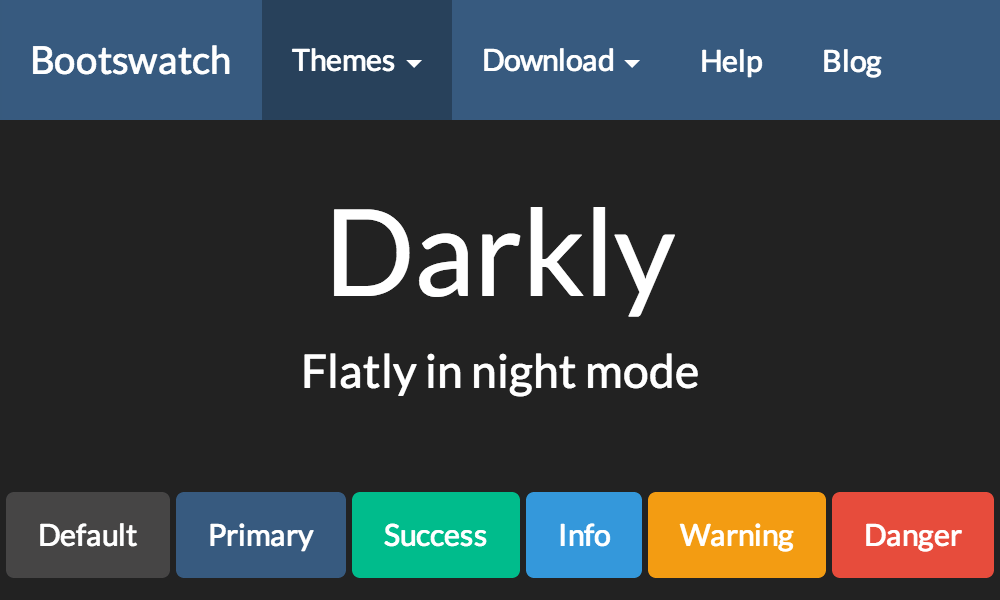
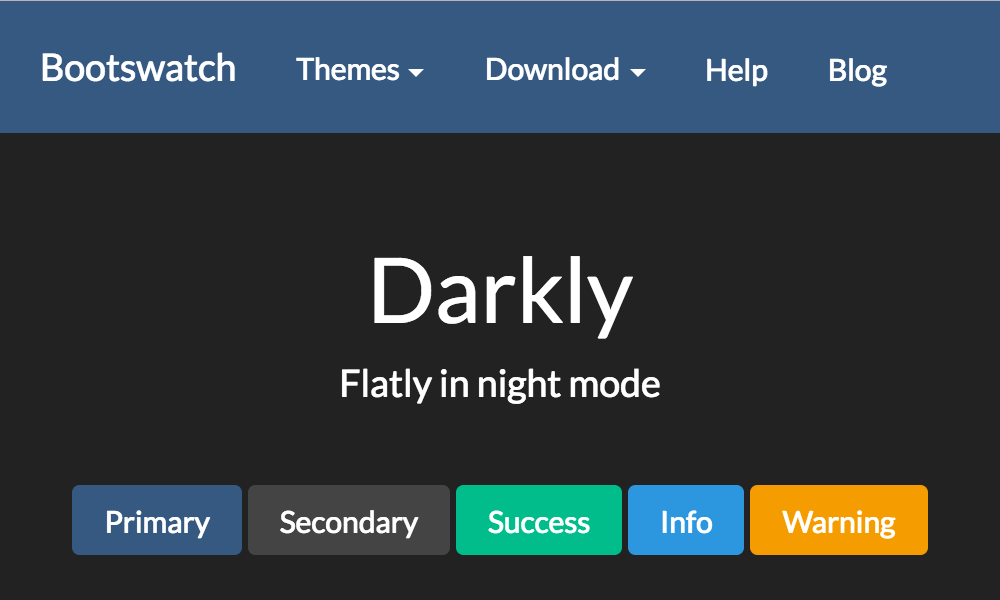
update thumbnails

diff --git a/tests/thumbnail.html b/tests/thumbnail.html
@@ -5,23 +5,22 @@
     <title>Bootswatch: Default Bootstrap</title>
     <meta name="viewport" content="width=device-width, initial-scale=1">
     <meta http-equiv="X-UA-Compatible" content="IE=edge" />
-    <link rel="stylesheet" href="../default/bootstrap.css" media="screen" id="stylesheet">
+    <link rel="stylesheet" href="../bower_components/bootstrap/dist/css/bootstrap.css" media="screen" id="stylesheet">
     <link rel="stylesheet" href="../assets/css/custom.min.css">
-    <!-- HTML5 shim and Respond.js IE8 support of HTML5 elements and media queries -->
-    <!--[if lt IE 9]>
-      <script src="../bower_components/html5shiv/dist/html5shiv.js"></script>
-      <script src="../bower_components/respond/dest/respond.min.js"></script>
-    <![endif]-->
     <style>
 
-        body,
-        .navbar,
-        .container {
+        body {
           width: 500px;
+          padding-top: 120px;
         }
 
         h1, p, .bs-example {
           text-align: center;
+        }
+
+        .navbar {
+          z-index: -10;
+          padding-left: 20px;
         }
 
         .lead {
@@ -36,35 +35,36 @@
   </head>
   <body>
 
-    <div class="navbar navbar-default navbar-fixed-top">
-      <div class="container">
-        <div class="navbar-header">
-          <a href="../" class="navbar-brand">Bootswatch</a>
-          <button class="navbar-toggle" type="button" data-toggle="collapse" data-target=".bs-navbar-collapse">
-            <span class="icon-bar"></span>
-            <span class="icon-bar"></span>
-            <span class="icon-bar"></span>
-          </button>
-        </div>
-        <div class="navbar-collapse collapse" id="navbar-main">
-          <ul class="nav navbar-nav">
-            <li class="dropdown active">
-              <a class="dropdown-toggle" data-toggle="dropdown" href="#" id="themes">Themes <span class="caret"></span></a>
-            </li>
-            <li class="dropdown">
-              <a class="dropdown-toggle" data-toggle="dropdown" href="#" id="download">Download <span class="caret"></span></a>
-            </li>
-            <li>
-              <a href="../help/">Help</a>
-            </li>
-            <li>
-              <a href="http://news.bootswatch.com">Blog</a>
-            </li>
-          </ul>
-
-        </div>
+    <nav class="navbar navbar-dark navbar-fixed-top bg-primary">
+      <button class="navbar-toggler hidden-lg-up" type="button" data-toggle="collapse" data-target="#navbarResponsive2" aria-controls="navbarResponsive" aria-expanded="false" aria-label="Toggle navigation"></button>
+      <div class="collapse navbar-toggleable-md" id="navbarResponsive2">
+        <a class="navbar-brand" href="#">Bootswatch</a>
+        <ul class="nav navbar-nav">
+          <li class="nav-item dropdown active">
+            <a class="nav-link dropdown-toggle" href="http://example.com" id="supportedContentDropdown2" data-toggle="dropdown" aria-haspopup="true" aria-expanded="false">Themes</a>
+            <div class="dropdown-menu" aria-labelledby="supportedContentDropdown2">
+              <a class="dropdown-item" href="#">Action</a>
+              <a class="dropdown-item" href="#">Another action</a>
+              <a class="dropdown-item" href="#">Something else here</a>
+            </div>
+          </li>
+          <li class="nav-item dropdown">
+            <a class="nav-link dropdown-toggle" href="http://example.com" id="supportedContentDropdown2" data-toggle="dropdown" aria-haspopup="true" aria-expanded="false">Download</a>
+            <div class="dropdown-menu" aria-labelledby="supportedContentDropdown2">
+              <a class="dropdown-item" href="#">Action</a>
+              <a class="dropdown-item" href="#">Another action</a>
+              <a class="dropdown-item" href="#">Something else here</a>
+            </div>
+          </li>
+          <li class="nav-item">
+            <a class="nav-link" href="#">Help</a>
+          </li>
+          <li class="nav-item">
+            <a class="nav-link" href="#">Blog</a>
+          </li>
+        </ul>
       </div>
-    </div>
+    </nav>
 
 
 
@@ -76,8 +76,8 @@
             <h1 id="theme">Default</h1>
             <p id="description" class="lead">Basic Bootstrap</p>
             <div class="bs-example">
-              <button type="button" class="btn btn-default">Default</button>
               <button type="button" class="btn btn-primary">Primary</button>
+              <button type="button" class="btn btn-secondary">Secondary</button>
               <button type="button" class="btn btn-success">Success</button>
               <button type="button" class="btn btn-info">Info</button>
               <button type="button" class="btn btn-warning">Warning</button>
@@ -94,7 +94,7 @@
     <script src="https://cdnjs.cloudflare.com/ajax/libs/mustache.js/0.7.2/mustache.min.js"></script>
     <script>
 
-      $.get("http://api.bootswatch.com/3/", function (data) {
+      $.get("../api/4.json", function (data) {
           var menuTemplate = "<div id='menu' style='position:fixed;top:10px;right:10px;'><select>{{#.}}<option data-description='{{description}}'>{{name}}</option>{{/.}}</select></div>",
               menuHTML = Mustache.render(menuTemplate, data.themes);
 
